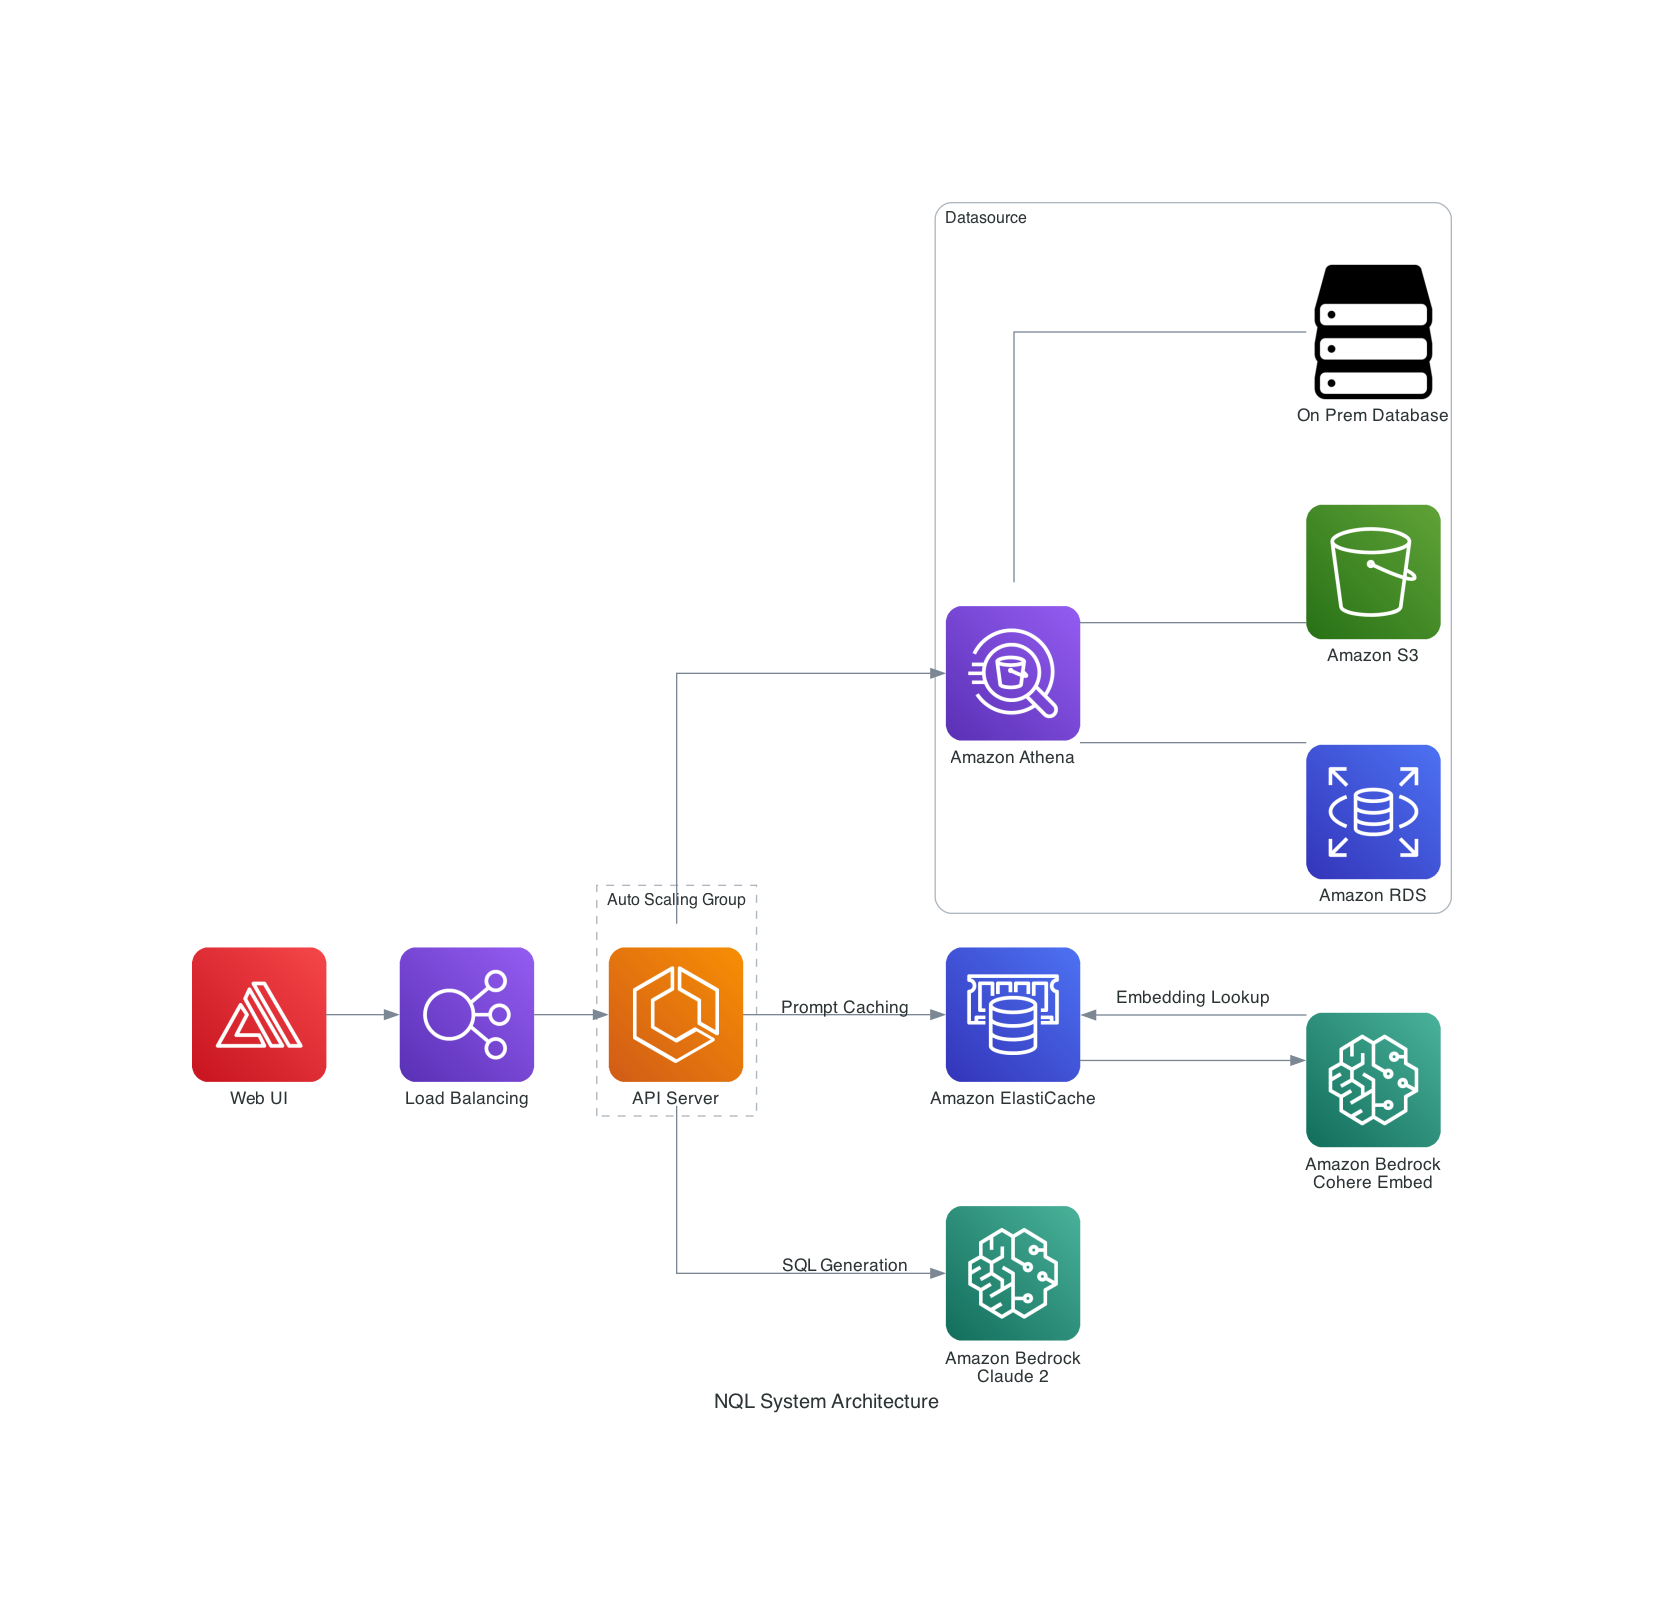
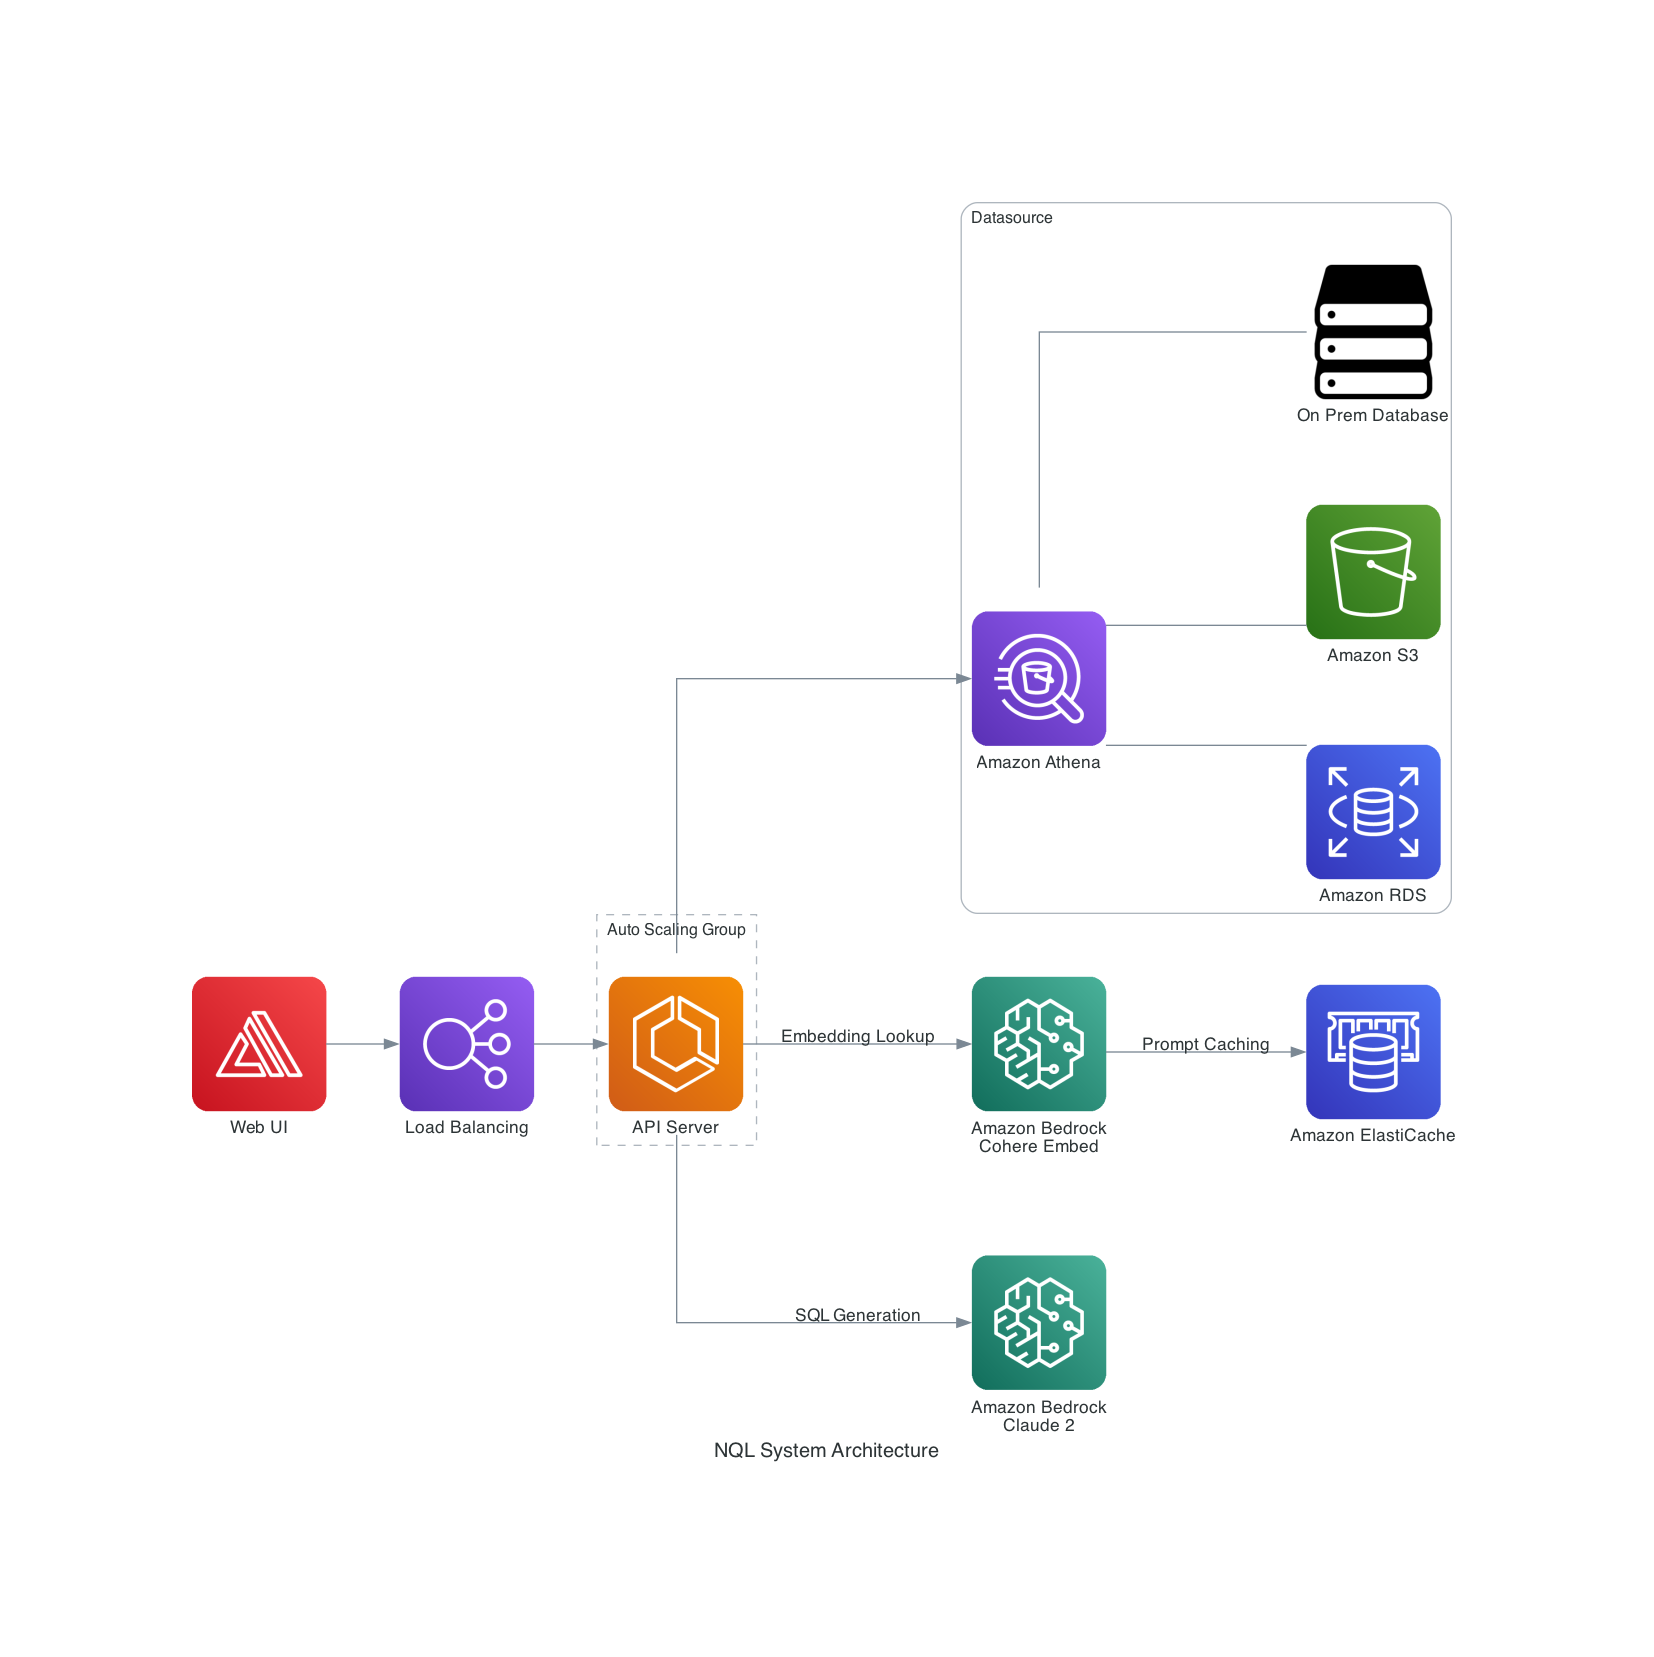
feat: fix incorrect diagram

diff --git a/docs/diagram/architecture.py b/docs/diagram/architecture.py
@@ -36,10 +36,9 @@ with Diagram("NQL System Architecture", show=False):
 
     (
         ecs_backend
-        >> Edge(label="Prompt Caching")
-        >> elasticache
         >> Edge(label="Embedding Lookup")
         >> embedding_layer
+        >> Edge(label="Prompt Caching")
         >> elasticache
     )
 
